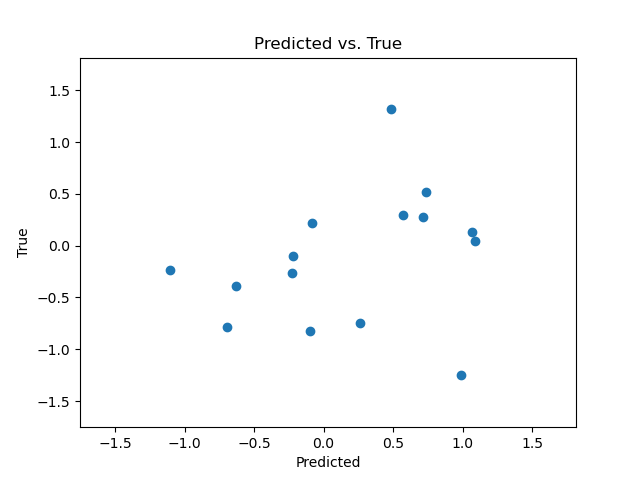
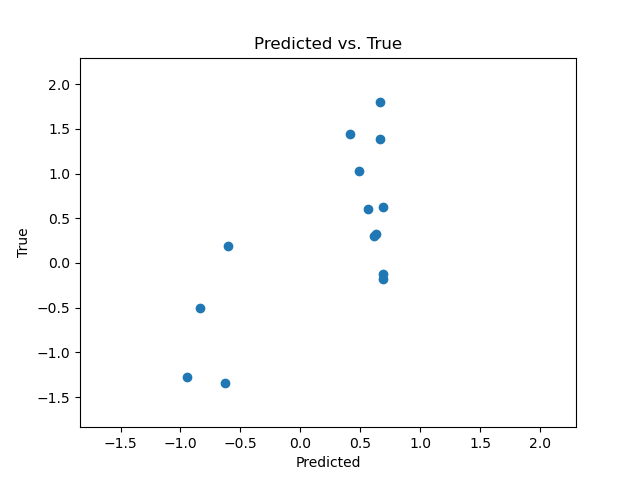
separate save on ea. run

diff --git a/bondnet/scripts/generate_settings.py b/bondnet/scripts/generate_settings.py
@@ -69,7 +69,7 @@ def generate_and_write(options):
         "debug": [False],
         "test": [False],
         "batch_size": [256, 512],
-        "embedding_size": [8, 16, 24],
+        "embedding_size": [12, 16, 18, 20],
         "epochs": [500,1000,1500],
         "fc_activation": ["ReLU"],
         "fc_batch_norm": [False],
@@ -77,17 +77,22 @@ def generate_and_write(options):
         "gated_activation": ["ReLU"],
         "gated_num_fc_layers": [1, 2, 3, 4],
         "lr": [0.001, 0.0001],
+        "dropout": [0.0, 0.1, 0.25],
         "output_file": ["results.pkl"],
         "start_epoch": [0],
         "early_stop": [True],
-        "scheduler": [False, True],
+        "scheduler": [False],
         "transfer_epochs": [250, 500, 1000],
         "transfer": [False, True],
         "freeze" : [True, False],
         "loss": ["huber"],
-        "weight_decay": [0.0, 0.00001],
+        "weight_decay": [0.0, 0.0001, 0.00001],
         "num_lstm_iters": [9, 11, 13],
-        "num_lstm_layers": [1, 2, 3]
+        "num_lstm_layers": [1, 2, 3],
+        "gated_batch_norm": [0, 1],
+        "gated_graph_norm":[0,1],
+        "gated_residual":[False, True],
+        "fc_batch_norm":[False, True]
     }   
     if(options["hydro"]):
         dictionary_values_options["augment"] = [False]
@@ -106,22 +111,16 @@ def generate_and_write(options):
         if(options["hydro"] == True or options["old_dataset"] == True):
             featurizer_dict = {
                 '''
-                "choice_1":{
-                    "extra_features": ["bond_length"]
-                },
-                "choice_2":{
-                    "extra_features": []
-                },
-                '''
                 "choice_3":{
                     "extra_features": ["bond_length", 'Lagrangian_K', 'Hamiltonian_K', 'e_density', 'lap_e_density', 
                             'e_loc_func', 'ave_loc_ion_E', 'delta_g_promolecular', 'delta_g_hirsh', 'esp_nuc', 
                             'esp_e', 'esp_total', 'grad_norm', 'lap_norm', 'eig_hess', 
                             'det_hessian', 'ellip_e_dens', 'eta'],
                     "feature_filter": True
-                },
+                },'''
+
                 "choice_4":{
-                    "extra_features": ["bond_length", 'Lagrangian_K', 'e_density','e_loc_func', 'esp_nuc', 'esp_e', 'esp_total', 'eig_hess',  'ellip_e_dens'], 
+                    "extra_features": ["bond_length", 'esp_total'], 
                     "feature_filter": True
                 },
             }

diff --git a/bondnet/model/training_utils.py b/bondnet/model/training_utils.py
@@ -280,7 +280,7 @@ def evaluate_classifier(model, nodes, data_loader, device = None):
     return accuracy / count, f1_val
 
 
-def evaluate(model, nodes, data_loader, device=None, plot = False):
+def evaluate(model, nodes, data_loader, device=None, plot = False, name = "true_pred"):
     """
     basic loop for training a regressor. Gets mae
         
@@ -340,15 +340,10 @@ def evaluate(model, nodes, data_loader, device=None, plot = False):
                 plt.title("Predicted vs. True")
                 plt.xlabel("Predicted")
                 plt.ylabel("True")
-                plt.savefig("./true_pred.png")
+                plt.savefig("./{}.png".format(name))
 
             mae += metric_fn(pred, target, stdev).detach().item() 
             count += len(target)
-
-
-
-
-
 
     l1_acc = mae / count
     return l1_acc

diff --git a/bondnet/scripts/train_hydro.py b/bondnet/scripts/train_hydro.py
@@ -137,7 +137,8 @@ def train_hydro(
                 model, 
                 feature_names, 
                 val_loader, 
-                device = dict_train["gpu"]
+                device = dict_train["gpu"],
+                name = settings_file.split(".")[0]
                 )
             val_r2 = evaluate_r2(
                 model, 
